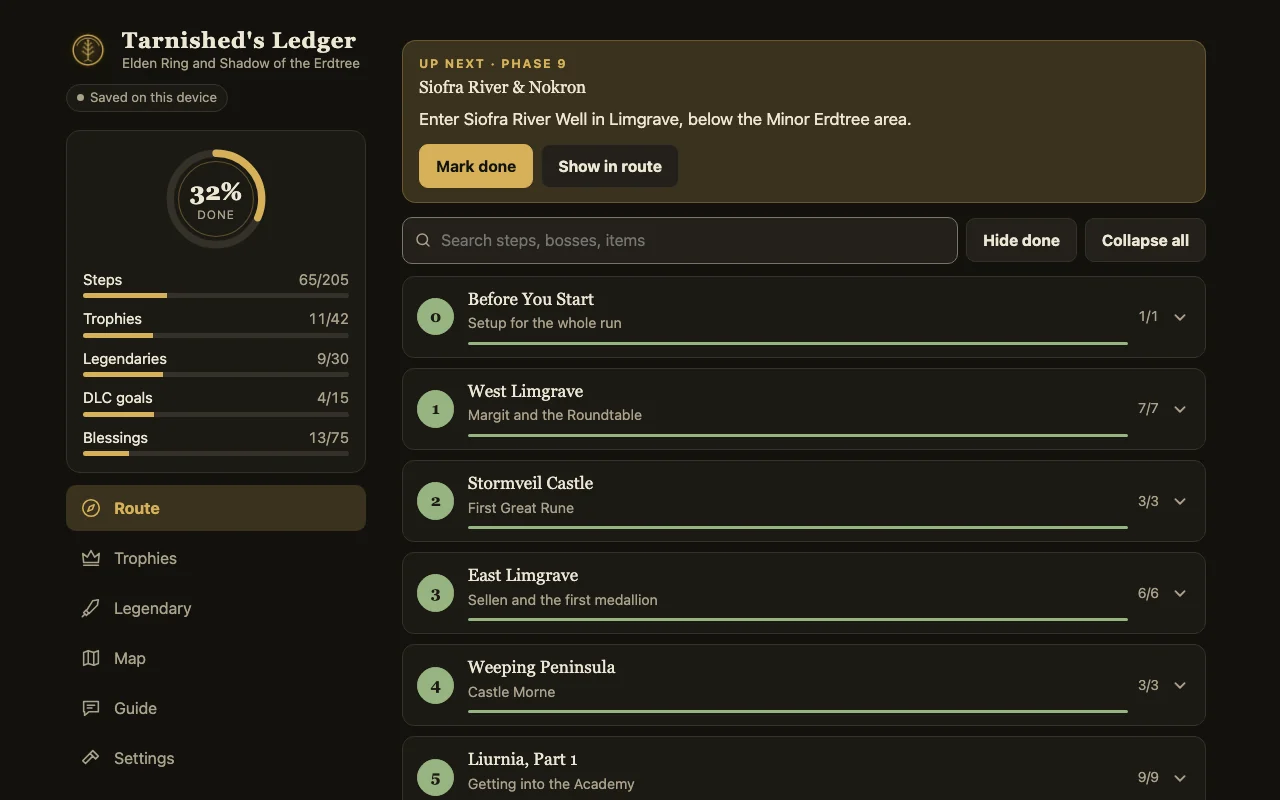
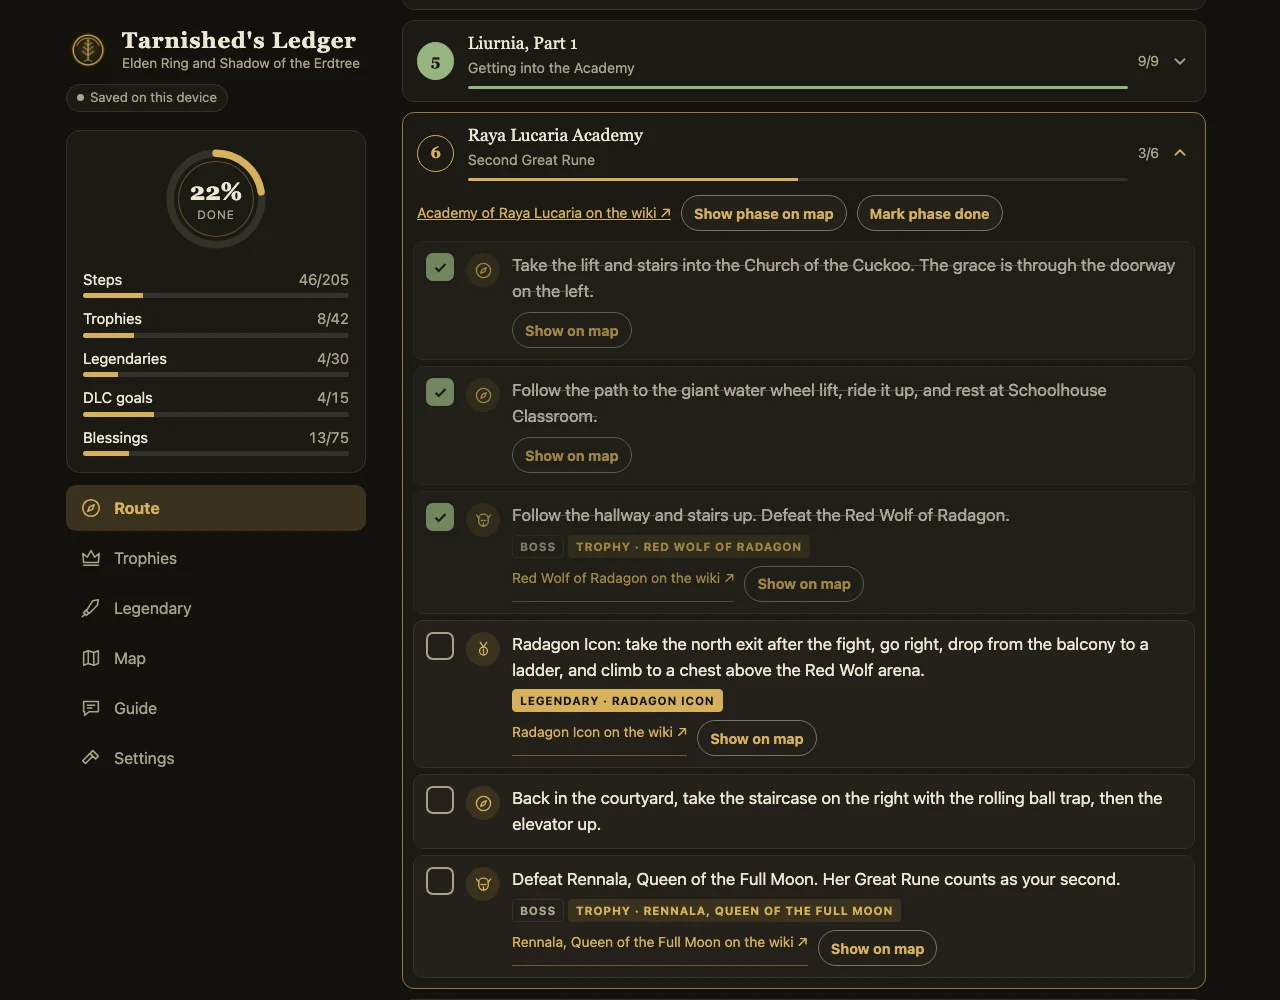
README: route screenshots show done, half-ticked and untouched phases

diff --git a/README.md b/README.md
@@ -15,7 +15,7 @@ Installable, offline-ready, no account, no build step.
 </div>
 
 <p align="center">
-  <img src="docs/screenshots/route-desktop-dark.webp" width="760" alt="The route tab on desktop in the dark theme">
+  <img src="docs/screenshots/route-desktop-dark.webp" width="760" alt="The route tab on desktop in the dark theme, with a half-ticked phase open">
 </p>
 
 ## What it is
@@ -46,7 +46,7 @@ Shadow of the Erdtree can be switched on in Settings. The DLC has no trophies, s
     <td width="50%"><img src="docs/screenshots/goals-phone-light.webp" alt="Shadow of the Erdtree goals and blessing counters on a phone, light theme"></td>
   </tr>
   <tr>
-    <td align="center"><sub>Route: pick up where you left off</sub></td>
+    <td align="center"><sub>Route: finished, half-done and untouched phases at a glance</sub></td>
     <td align="center"><sub>Shadow of the Erdtree goals and counters</sub></td>
   </tr>
 </table>
